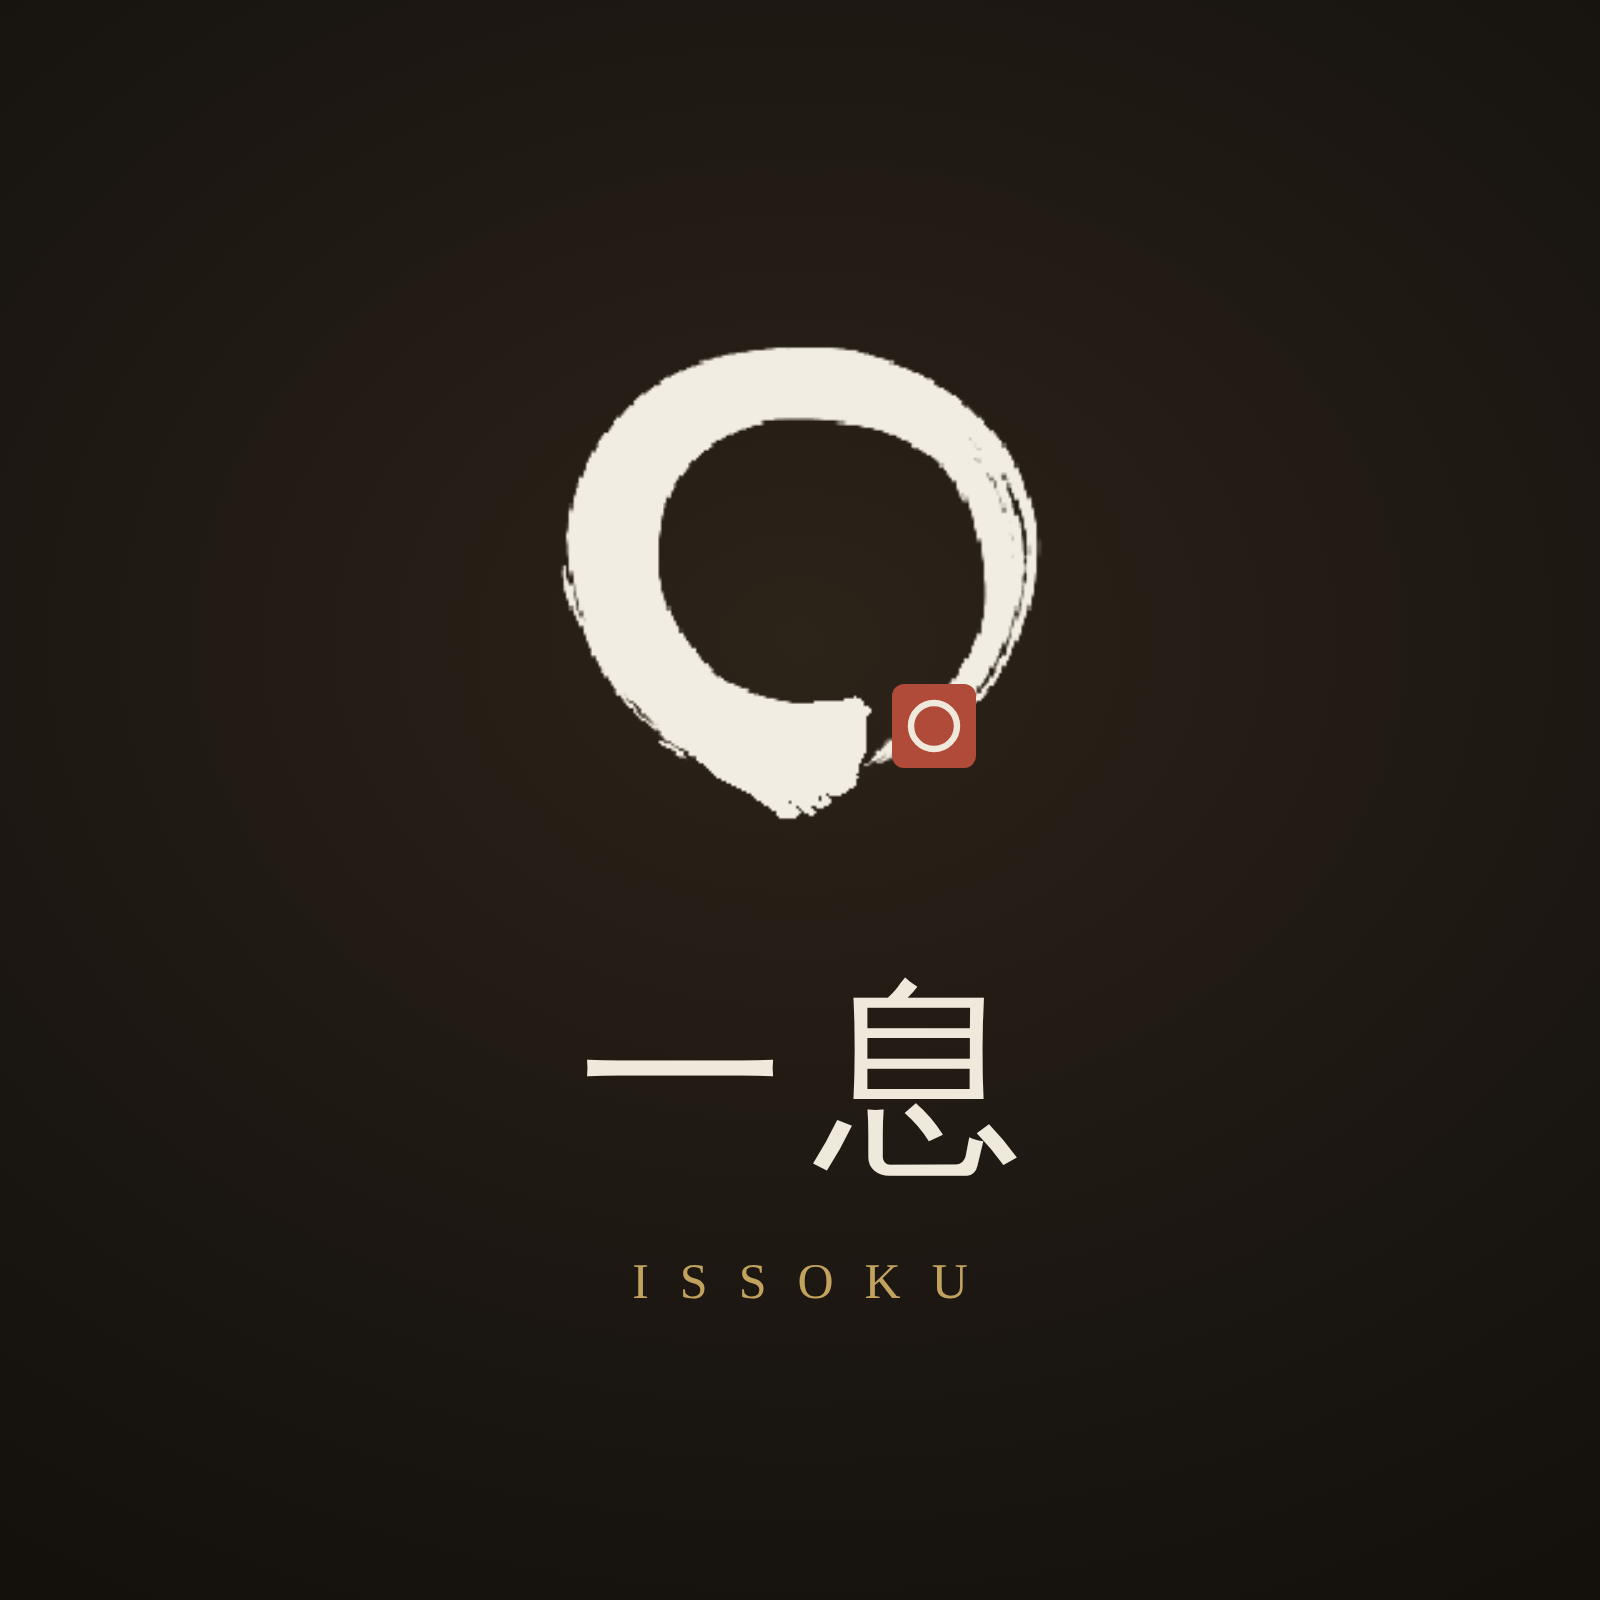
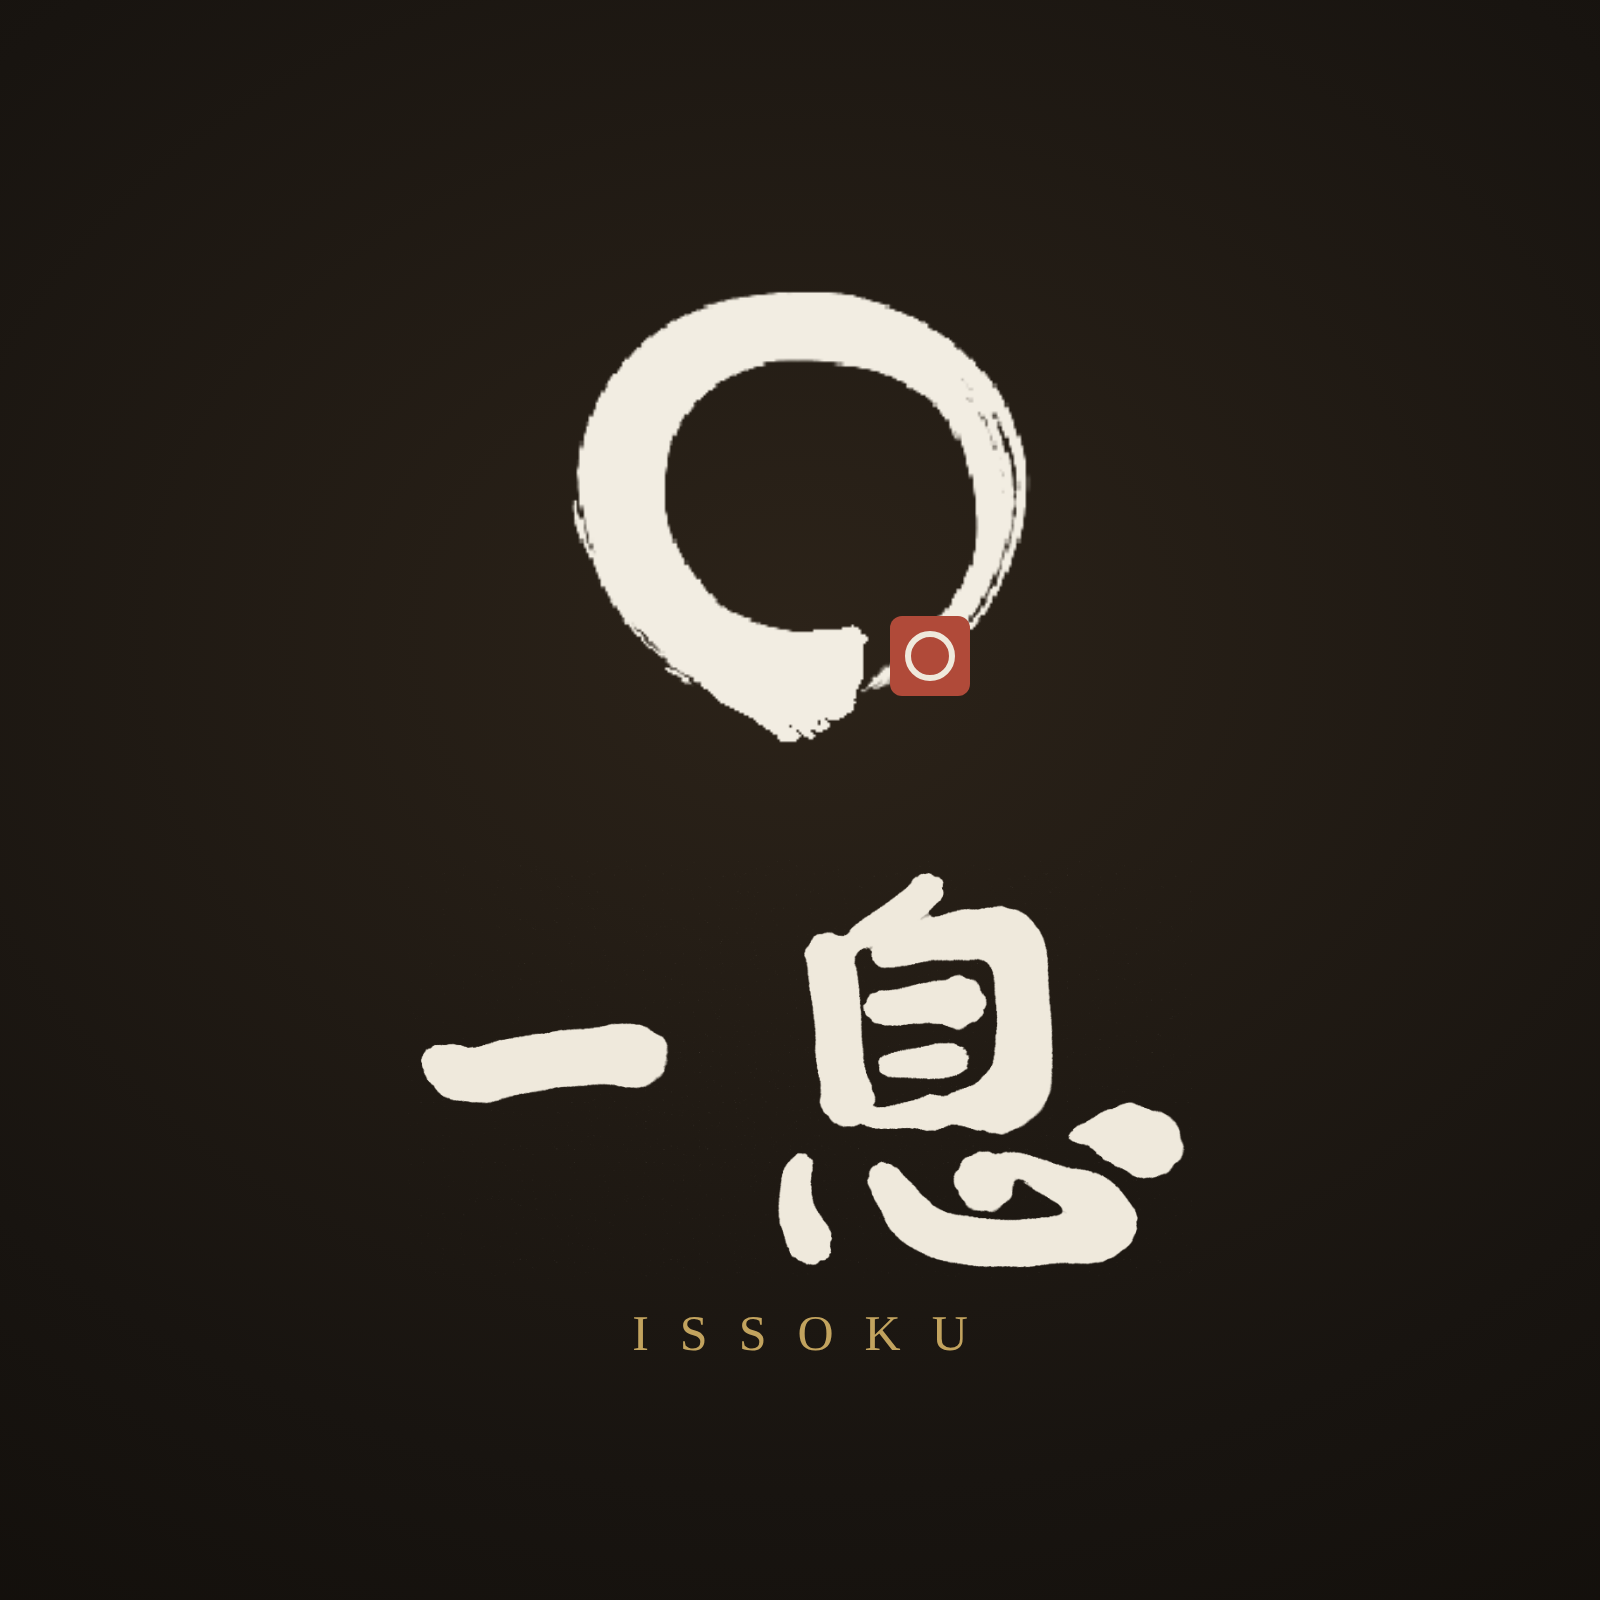
アイコンの「一息」も本物の毛筆に差し替え
頂いた高解像度の筆文字「一息」を紙地を抜いて淡色化（issoku-light.png）。
アイコンの活字「一息」をこの本物の筆文字へ。円相＋朱印＋一息、すべて手書きで統一。
原本(issoku-source.jpg)も同梱。バナー/透かしは円相のみで据え置き。

Claude-Session: https://claude.ai/code/session_01Bwk76KsqtWFGpB9v5YCFbq

Changed region(s): [[0.3438, 0.1562, 0.6562, 0.5312], [0.25, 0.5312, 0.75, 0.8438]]

diff --git a/assets/youtube/avatar.html b/assets/youtube/avatar.html
@@ -3,23 +3,24 @@
   .a{width:800px;height:800px;display:flex;flex-direction:column;align-items:center;justify-content:center;
      background:radial-gradient(120% 95% at 50% 40%, #2c2319 0%, #181410 56%, #0e0b07 100%);
      font-family:'Hiragino Mincho ProN','Yu Mincho','Noto Serif CJK JP',serif}
-  .stage{position:relative;width:300px;height:300px}
+  .stage{position:relative;width:286px;height:286px}
   .stage>*{position:absolute}
   /* 本物の円相（淡色・落款なし） */
-  .stage img.enso{left:18px;top:16px;width:264px;height:263px}
+  .stage img.enso{left:17px;top:15px;width:252px;height:251px}
   /* 朱印 */
-  .seal{left:196px;top:198px}
-  .name{color:#efe9dc;font-size:104px;letter-spacing:.14em;margin-top:26px;font-weight:500;padding-left:.14em}
-  .sub{color:#c2a35e;font-size:25px;letter-spacing:.62em;margin-top:18px;padding-left:.62em}
+  .seal{left:188px;top:190px}
+  /* 本物の筆文字「一息」（淡色） */
+  img.issoku{width:392px;height:auto;margin-top:26px;display:block}
+  .sub{color:#c2a35e;font-size:25px;letter-spacing:.62em;margin-top:14px;padding-left:.62em}
 </style></head><body>
 <div class="a">
   <div class="stage">
     <img class="enso" src="./enso-light.png">
-    <svg class="seal" width="42" height="42" xmlns="http://www.w3.org/2000/svg">
-      <rect width="42" height="42" rx="6" fill="#b04a39"/><circle cx="21" cy="21" r="11.5" fill="none" stroke="#efe9dc" stroke-width="3.2"/>
+    <svg class="seal" width="40" height="40" xmlns="http://www.w3.org/2000/svg">
+      <rect width="40" height="40" rx="6" fill="#b04a39"/><circle cx="20" cy="20" r="11" fill="none" stroke="#efe9dc" stroke-width="3"/>
     </svg>
   </div>
-  <div class="name">一息</div>
+  <img class="issoku" src="./issoku-light.png">
   <div class="sub">ISSOKU</div>
 </div>
 </body></html>

diff --git a/youtube.md b/youtube.md
@@ -30,7 +30,7 @@
   - ライブ直行: `…/channel/UCqzoMItMT74uC--y67S1-AQ/live`（`@The-un_do/live` でも可）
   - RSS: `https://www.youtube.com/feeds/videos.xml?channel_id=UCqzoMItMT74uC--y67S1-AQ`
   - ※アプリの導線（`YT_LIVE_URL`）は読みやすいハンドル `@The-un_do` のままでよい。IDは裏の永続キーとして記録。
-- **アイコン（プロフィール画像）**: `assets/youtube/avatar.png`（**本物の毛筆円相**（落款なし・淡色）＋朱印＋一息・1600px四方）
+- **アイコン（プロフィール画像）**: `assets/youtube/avatar.png`（**本物の毛筆円相**（落款なし・淡色）＋朱印＋**本物の毛筆「一息」**・1600px四方）。一息は `issoku-source.jpg` 原本／`issoku-light.png` 淡色版
 - **バナー（ヘッダー）**: `assets/youtube/banner.png`（毛筆円相＋坐雲堂／THE UN-DO＋三日月・2560×1440・**全デバイス安全域1235×338に文字収め**）
 - **動画の透かし**: `assets/youtube/watermark.png`（円相のみ・背景透過＋淡い影・300px四方）
 - **リンク欄**: 「坐るアプリ → https://the-un-do.vercel.app/ 」